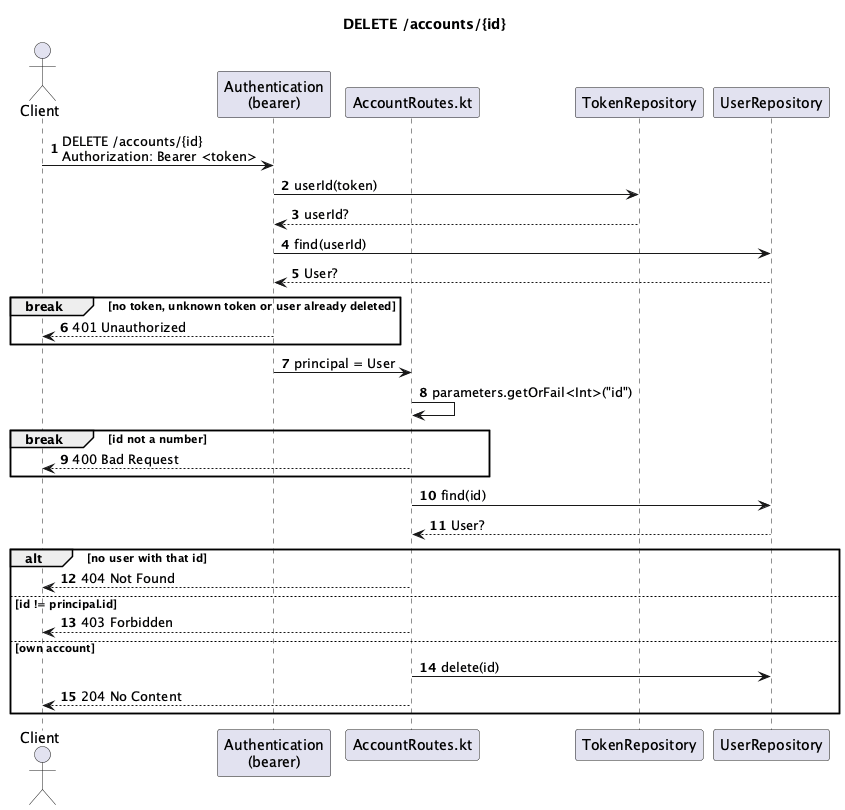
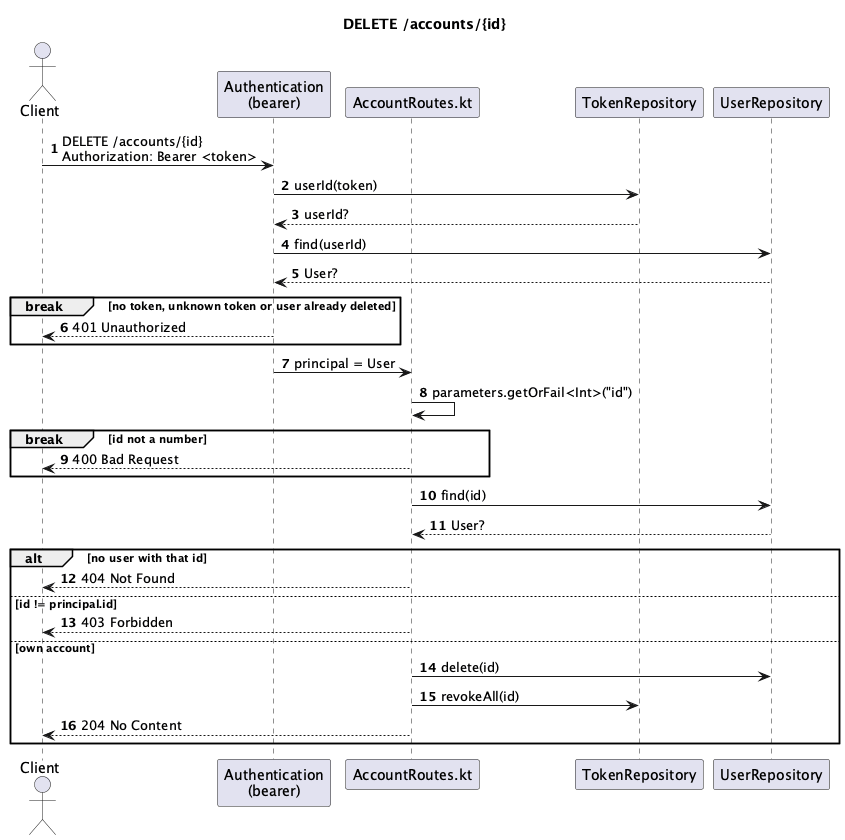
Revoke the tokens of a deleted account
Deleting an account only removed the user, so its bearer tokens stayed in TokenRepository and were rejected only because the user could no longer be found. The delete route now removes them, so it no longer depends on ids never being handed out again.

diff --git a/test/accounts/AccountRoutesTest.kt b/test/accounts/AccountRoutesTest.kt
@@ -150,13 +150,22 @@ class AccountRoutesTest {
     }
 
     @Test
+    fun DeletedUsersTokenIsRevoked() = testApplication {
+        application { module() }
+        val (id, token) = client.signUp()
+        client.deleteAccount(id, token)
+
+        assertNull(TokenRepository.userId(token))
+        assertEquals(HttpStatusCode.Unauthorized, client.deleteAccount(id, token).status)
+    }
+
+    @Test
     fun DeletedUsersTokenDoesNotWorkForNewUser() = testApplication {
         application { module() }
         val (id, token) = client.signUp()
         client.deleteAccount(id, token)
         val (newId, _) = client.signUp("piet@example.com")
 
-        // Tokens outlive a delete, so they're only safe while ids are never handed out again.
         assertEquals(HttpStatusCode.Unauthorized, client.deleteAccount(newId, token).status)
     }
 }

diff --git a/test/accounts/TokenRepositoryTest.kt b/test/accounts/TokenRepositoryTest.kt
@@ -1,0 +1,18 @@
+package com.example.accounts
+
+import kotlin.test.*
+
+class TokenRepositoryTest {
+    @Test
+    fun RevokeAllRemovesEveryTokenOfThatUserOnly() {
+        val first = TokenRepository.issue(101)
+        val second = TokenRepository.issue(101)
+        val other = TokenRepository.issue(102)
+
+        TokenRepository.revokeAll(101)
+
+        assertNull(TokenRepository.userId(first))
+        assertNull(TokenRepository.userId(second))
+        assertEquals(102, TokenRepository.userId(other))
+    }
+}

diff --git a/src/accounts/AccountRoutes.kt b/src/accounts/AccountRoutes.kt
@@ -47,6 +47,7 @@ fun Application.configureAccounts() {
                     id != call.principal<User>()?.id -> HttpStatusCode.Forbidden
                     else -> {
                         UserRepository.delete(id)
+                        TokenRepository.revokeAll(id)
                         HttpStatusCode.NoContent
                     }
                 }

diff --git a/src/accounts/TokenRepository.kt b/src/accounts/TokenRepository.kt
@@ -11,4 +11,8 @@ object TokenRepository {
     fun issue(userId: Int): String = UUID.randomUUID().toString().also { userIds[it] = userId }
 
     fun userId(token: String): Int? = userIds[token]
+
+    fun revokeAll(userId: Int) {
+        userIds.values.removeIf { it == userId }
+    }
 }
